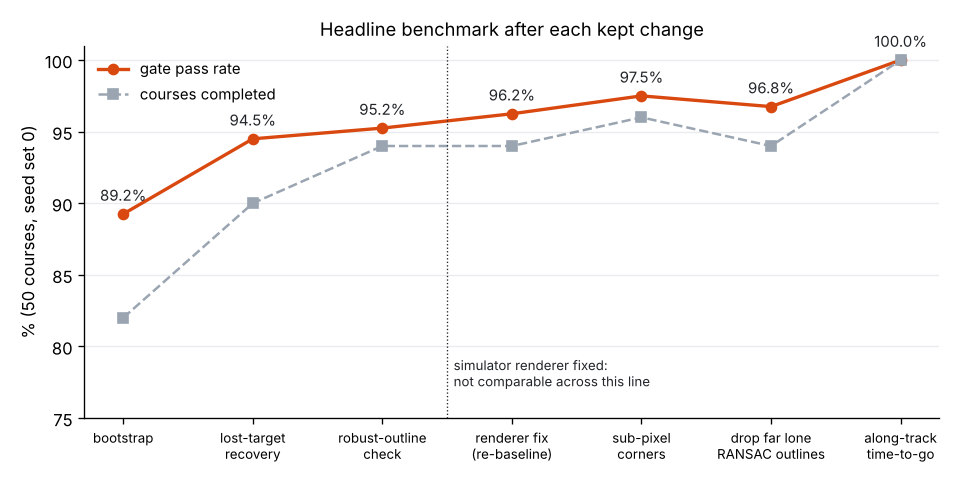
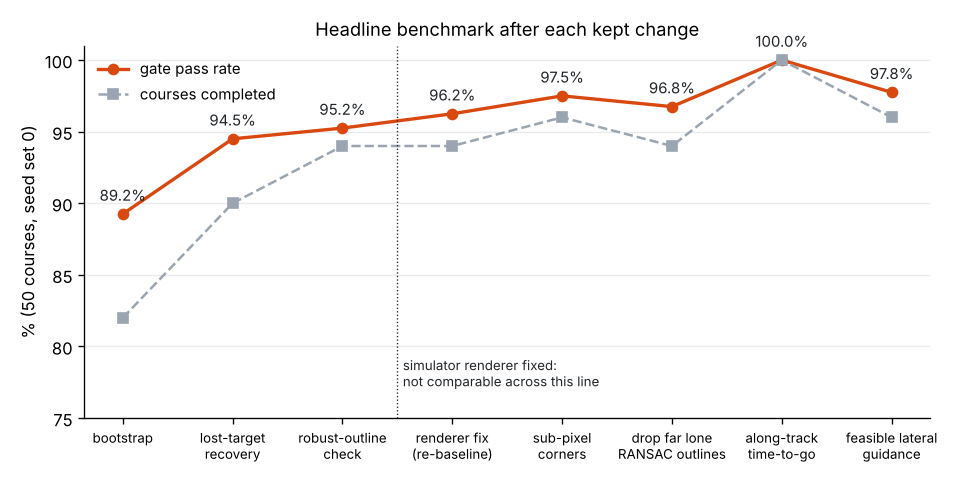
Write-up refresh: feasible lateral guidance in README/WRITEUP/figures, pooled 6-set headline 99.08%, handoff yaw story
Claude-Session: https://claude.ai/code/session_01VbhGurrirFWQSkDPdnf4zm

diff --git a/vdr/report.py b/vdr/report.py
@@ -1,6 +1,6 @@
 """Write-up figures, generated only from committed results files.
 
-    python -m vdr.report            # writes docs/img/{history,ablations,paired_laps}.png
+    python -m vdr.report            # writes docs/img/{history,ablations,paired_laps*}.png
 
 Every number plotted is read from a `results/*.json` file listed below, so the
 figures can be regenerated (and checked) by anyone with the repo. Nothing here
@@ -32,6 +32,7 @@ HISTORY = [
     ("2026-10-12_3b6cbbb_baseline.json", "sub-pixel\ncorners", 1),
     ("2026-10-13_0f1e256_baseline.json", "drop far lone\nRANSAC outlines", 1),
     ("2026-10-15_1d4bb7f_baseline.json", "along-track\ntime-to-go", 1),
+    ("2026-10-16_3395fb0_baseline.json", "feasible lateral\nguidance", 1),
 ]
 
 # Component A/Bs: (label, [(off file, on file), ...] one pair per seed set).
@@ -70,6 +71,16 @@ ABLATIONS = [
         ("2026-10-14_2d7e3f6_baseline-seed3000.json", "2026-10-15_131d93c_ab-attgo-seed3000.json"),
         ("2026-10-14_2d7e3f6_baseline-seed4000.json", "2026-10-15_131d93c_ab-attgo-seed4000.json"),
     ]),
+    # Off: the along-track time-to-go "on" files (same code path at d37cf14 with the flag off),
+    # plus seed set 5000 flown at d37cf14 with the flag off.
+    ("feasible lateral guidance", [
+        ("2026-10-15_1d4bb7f_baseline.json", "2026-10-15_d37cf14_ab-feaslat.json"),
+        ("2026-10-14_131d93c_ab-attgo-seed1000.json", "2026-10-16_d37cf14_ab-feaslat-seed1000.json"),
+        ("2026-10-14_131d93c_ab-attgo-seed2000.json", "2026-10-16_d37cf14_ab-feaslat-seed2000.json"),
+        ("2026-10-15_131d93c_ab-attgo-seed3000.json", "2026-10-16_d37cf14_ab-feaslat-seed3000.json"),
+        ("2026-10-15_131d93c_ab-attgo-seed4000.json", "2026-10-16_d37cf14_ab-feaslat-seed4000.json"),
+        ("2026-10-16_d37cf14_baseline-seed5000.json", "2026-10-16_d37cf14_ab-feaslat-seed5000.json"),
+    ]),
 ]
 
 # A/Bs that were tried and left off (shown in the write-up, not in the ablation figure).
@@ -81,12 +92,21 @@ REJECTED = [
         ("2026-10-14_2d7e3f6_baseline-seed3000.json", "2026-10-14_2d7e3f6_ab-latprio-seed3000.json"),
         ("2026-10-14_2d7e3f6_baseline-seed4000.json", "2026-10-14_2d7e3f6_ab-latprio-seed4000.json"),
     ]),
+    ("handoff yaw sigma floor", [
+        ("2026-10-16_3395fb0_baseline.json", "2026-10-17_cbd0150_ab-yawfloor.json"),
+        ("2026-10-16_d37cf14_ab-feaslat-seed1000.json", "2026-10-17_cbd0150_ab-yawfloor-seed1000.json"),
+        ("2026-10-16_d37cf14_ab-feaslat-seed2000.json", "2026-10-17_cbd0150_ab-yawfloor-seed2000.json"),
+        ("2026-10-16_d37cf14_ab-feaslat-seed3000.json", "2026-10-17_cbd0150_ab-yawfloor-seed3000.json"),
+        ("2026-10-16_d37cf14_ab-feaslat-seed4000.json", "2026-10-17_cbd0150_ab-yawfloor-seed4000.json"),
+        ("2026-10-16_d37cf14_ab-feaslat-seed5000.json", "2026-10-17_cbd0150_ab-yawfloor-seed5000.json"),
+    ]),
 ]
 
 # Paired lap-time comparisons (same seeds, flag off vs on): (label, pairs, output file name).
 PAIRED = [
     ("sub-pixel corners", ABLATIONS[3][1], "paired_laps.png"),
     ("along-track time-to-go", ABLATIONS[5][1], "paired_laps_tgo.png"),
+    ("feasible lateral guidance", ABLATIONS[6][1], "paired_laps_feaslat.png"),
 ]
 
 C_OFF, C_ON, C_INK, C_GRID = "#9aa5b1", "#d9480f", "#212529", "#e9ecef"
@@ -155,7 +175,7 @@ def plot_ablations(path, root=RESULTS) -> list:
         on = pooled_pass([p[1] for p in pairs], root)
         per_set = [(100 * load(a, root)["pass_rate"], 100 * load(b, root)["pass_rate"]) for a, b in pairs]
         rows.append((label, len(pairs), 100 * off[0] / off[1], 100 * on[0] / on[1], per_set))
-    fig, ax = plt.subplots(figsize=(10, 4.4))
+    fig, ax = plt.subplots(figsize=(11, 4.4))
     w = 0.36
     for i, (label, n, off, on, per_set) in enumerate(rows):
         ax.bar(i - w / 2, off, w, color=C_OFF, label="off" if i == 0 else None)

diff --git a/docs/WRITEUP.md b/docs/WRITEUP.md
@@ -24,23 +24,28 @@ default configuration.
 
 | configuration (current simulator) | gate pass rate | courses completed | mean lap |
 |---|---|---|---|
-| **default** | **100.0%** | 100% | 11.26 s |
-| along-track time-to-go off | 96.8% | 94% | 12.27 s |
+| **default** | **97.8%** | 96% | 11.59 s |
+| feasible lateral guidance off | 100.0% | 100% | 11.26 s |
+| also along-track time-to-go off | 96.8% | 94% | 12.27 s |
 | also far lone RANSAC outlines kept | 97.5% | 96% | 12.33 s |
 | also sub-pixel corners off | 96.2% | 94% | 12.5 s |
 
-Source: [`2026-10-15_1d4bb7f_baseline.json`](../results/2026-10-15_1d4bb7f_baseline.json),
+Source: [`2026-10-16_3395fb0_baseline.json`](../results/2026-10-16_3395fb0_baseline.json),
+[`2026-10-15_1d4bb7f_baseline.json`](../results/2026-10-15_1d4bb7f_baseline.json),
 [`2026-10-13_0f1e256_baseline.json`](../results/2026-10-13_0f1e256_baseline.json),
 [`2026-10-12_3b6cbbb_baseline.json`](../results/2026-10-12_3b6cbbb_baseline.json),
 [`2026-10-12_06ceff9_baseline.json`](../results/2026-10-12_06ceff9_baseline.json).
 
-**Seed set 0 is a lucky set; the pooled number is the honest one.** Over five sets of 50
-courses (seeds 0, 1000, 2000, 3000, 4000; 2000 gates) the default passes **97.75%** of gates
-and completes 241 of 250 courses (per set 100.0 / 96.5 / 98.8 / 96.5 / 97.0%, laps 11.1–11.3 s;
-`results/2026-10-1{4,5}_131d93c_ab-attgo[-seedN].json`, flown with the same code as the
-default). The nine failures are 8 `crash_gate` (clipping a frame) and 1 `missed_gate`. The
-latest change made laps a second faster at an unchanged pooled pass rate (97.50% → 97.75%,
-section 6.6); its +3.2 points on seed set 0 alone are noise.
+**One seed set is not enough; the pooled number is the honest one.** Over six sets of 50
+courses (seeds 0, 1000, 2000, 3000, 4000, 5000; 2400 gates) the default passes **99.08%** of
+gates and completes 295 of 300 courses (per set 97.8 / 97.2 / 100.0 / 99.5 / 100.0 / 100.0%,
+laps 11.5–11.7 s; `results/2026-10-16_3395fb0_baseline.json` and
+`results/2026-10-16_d37cf14_ab-feaslat-seed{1000..5000}.json`, flown with the same code as the
+default). The five failures are 2 `crash_gate` (clipping a frame) and 3 `missed_gate`. The
+latest change, guidance that plans its sideways correction within the acceleration limit
+(section 6.7), raised the pooled pass rate from 97.92% to 99.08% and cost 3% of lap time. On
+seed set 0 alone the same change went *down*, 100.0% → 97.8%: that set had been the lucky one,
+and two runs either way is within noise for one set.
 
 ![Headline benchmark after each kept change](img/history.png)
 
@@ -61,13 +66,17 @@ sets named; each grey line is one 50-course set):
 | sub-pixel corners | 4 | 96.9% → 96.7% (laps 0.155 s faster) | `2026-10-12_06ceff9_` |
 | drop far lone RANSAC outlines | 5 | 96.25% → 97.50% (laps unchanged) | `2026-10-1{2,3}_b6a6a31_` |
 | along-track time-to-go | 5 | 97.50% → 97.75% (laps 1.03 s faster) | `2026-10-1{4,5}_131d93c_ab-attgo` |
+| feasible lateral guidance | 6 | 97.92% → 99.08% (laps 0.34 s slower, +3%) | `2026-10-1{5,6}_d37cf14_ab-feaslat` |
 | *tried, left off:* lateral-first saturation | 5 | 97.50% → 98.25% (completed 240 → 240) | `2026-10-1{3,4}_2d7e3f6_` |
+| *tried, left off:* handoff yaw sigma floor | 6 | 99.08% → 99.17% (1 run rescued, 0 broken) | `2026-10-17_cbd0150_ab-yawfloor` |
 
 The first three were measured on the earlier renderer. Sub-pixel corners did not change the
 pass rate; they were kept because they made laps faster at equal pass rate (section 5), and
-the same holds for along-track time-to-go. Lateral-first saturation raised the gate count but
-not the number of completed courses (it rescued 8 runs and broke 8, which then failed later in
-the course), so it was not counted as a clear win (section 6.6).
+the same holds for along-track time-to-go. Feasible lateral guidance is slower but within the
+5% the pace rule allows, and it completed 5 more of 300 courses (9 rescued, 4 broken).
+Lateral-first saturation raised the gate count but not the number of completed courses (it
+rescued 8 runs and broke 8, which then failed later in the course), so it was not counted as a
+clear win (section 6.6). The handoff yaw floor changed one run in 300 (section 6.8).
 
 Two reference points from the bootstrap: at 4 m/s with no race clock the stack passes 97.8% of
 gates ([`0423930_ablation-4mps-noclock`](../results/2026-10-07_0423930_ablation-4mps-noclock.json))
@@ -196,6 +205,16 @@ x > −1.2 m guidance switches to "hold the line": a velocity loop towards v_f p
 vertical position feedback. (A floor on T used instead made the drone brake to a stop 0.7 m
 short of the gate.) The total demand is clipped to 14 m/s².
 
+**Planning within the limit.** The cubic's acceleration is linear in time, so on each lateral
+axis its largest value is at one end of the manoeuvre, and both ends have closed forms:
+a(0) = (−6y − 4T v_y)/T² and a(T) = (6y + 2T v_y)/T² (gate at y = 0). Guidance picks the
+shortest lateral time-to-go T_lat whose peak stays within 11 m/s². If that is later than the
+along-track arrival, it buys the time by braking along x at a constant deceleration so the drone
+reaches the gate plane at T_lat (never planning to arrive slower than 3 m/s, and braking only
+with what the 14 m/s² limit leaves). Example: 1 m off the axis, 4 m out at 8 m/s, the plain
+cubic asks for 24 m/s² sideways, which clipping cut to 14; the planned law asks for 11.3 sideways
+and brakes at 6.9.
+
 Control turns the desired acceleration into acro commands: thrust along the required specific
 force (with a 55° tilt limit), a desired attitude from that axis plus the desired heading, and
 body rates proportional to the geometric attitude error on SO(3) (Lee et al., 2010).
@@ -220,7 +239,7 @@ live in `AutonomyConfig` and are deliberately not copied from the simulator.
   one changed corners by 1e-13 px yet altered 40+ of 50 trajectories and flipped 1–2 outcomes
   per seed set. Because a run ends at its first failure, one early crash can cost up to 2% of
   the 400 gates. So differences under ~8 percentage points on one set are treated as noise,
-  and smaller effects are judged only pooled over several seed sets (0, 1000, 2000, 3000, 4000), with
+  and smaller effects are judged only pooled over several seed sets (0, 1000, 2000, 3000, 4000, and 5000 since run 13), with
   a set held out when a threshold was tuned on the others.
 * **Pace rule.** A change counts only if the pass rate rises without the mean lap time getting
   more than 5% worse; going faster at equal pass rate also counts.
@@ -235,6 +254,12 @@ live in `AutonomyConfig` and are deliberately not copied from the simulator.
 
   Along-track time-to-go: 232 of 233 paired runs faster, mean −1.025 s (median −1.033 s),
   about 8% of a lap.
+
+![Paired lap-time differences, feasible lateral guidance on minus off](img/paired_laps_feaslat.png)
+
+  Feasible lateral guidance: 271 of 286 paired runs slower (11 faster, 4 equal), mean
+  +0.344 s (median +0.324 s), about 3% of a lap: the price of braking when a correction
+  would not fit.
 * **Simulator changes** go in as a `SimConfig` field defaulting to the old behaviour, then the
   default is flipped in a separate commit and the benchmark re-baselined.
 
@@ -307,15 +332,41 @@ which counts as an improvement under the pace rule. The 7 broken runs are the sa
 higher speed: lateral demand saturating close to the gate, often after a late correction
 following a handoff.
 
+### 6.7 Plan around the limit instead of clipping at it (pooled 97.92% → 99.08%)
+Both attempts in 6.6 still let guidance ask for the impossible and then decided what to drop.
+The fix was to never ask: because the cubic's acceleration is linear in time, its peak sideways
+demand has a closed form, so guidance can choose the lateral time-to-go that keeps the peak at
+11 m/s² and, when that is longer than the along-track arrival, brake along x to make the time
+(section 3.6). Over six seed sets it rescued 9 runs (8 of them the lateral-saturation crashes
+from 6.6) and broke 4, raising the pooled pass rate from 97.92% to 99.08% and completed courses
+from 290 to 295, for 0.34 s (3%) of lap time. Re-flying the broken runs showed what comes next:
+three were handoffs where the next gate's estimate started 2–4 m off sideways, and the new law
+braked and chased it until sightings corrected it. Fixing one subsystem tends to expose the
+next one.
+
+### 6.8 An error the main measurement cannot see (handoff yaw)
+Those 2–4 m post-handoff errors persisted for 0.5–0.7 s even though the first sighting after
+each handoff was *accepted* by the χ² test within 0.01–0.08 s. The reason is geometric. The
+filter lives in the target gate's frame, and its main measurement is the gate centre seen from
+the camera (direction and range). If the next gate's *yaw* is estimated wrong by θ, the handoff
+re-expresses the drone's pose in a frame rotated by θ about the gate centre: the estimated drone
+is a rigid rotation of the true one about that centre, so the gate centre looks exactly where
+it should and the innovation is zero. Only the weak PnP attitude update can see θ. Checked
+against truth over 685 handoffs on seed sets 0 and 1000, the averaged next-gate yaw had an RMS
+error of 9–10.5° (worse below 7 m), 8–11% of handoffs were more than 15° off, the failing ones
+16–46°, and its claimed σ was 2–3× too small because sightings from one viewpoint share their
+bias. Flooring that σ at 12° (so the attitude updates can pull it in) was flat: pooled
+99.08% → 99.17%, one run rescued, none broken, so it was left off. A wider prior cannot help
+much while the attitude measurement itself is single-square PnP rotation (5–30° noise); the
+planned fix is a better yaw measurement (section 7).
+
 ## 7. Limitations and next steps
 
-* Next-gate estimates are still the weak point; with the earlier renderer about 10% of
-  handoffs were more than 1.5 m off along x. Using both squares in one PnP (8 points), a
-  gravity-constrained 4-DoF PnP (position + yaw only), and a measurement covariance from the
-  PnP Jacobian are the planned attacks.
-* Most remaining failures are lateral saturation near the gate (section 6.6). The guidance
-  should plan within its acceleration limit (choose T so the lateral cubic's peak acceleration
-  stays under 14 m/s², slowing along x only when it must) instead of relying on clipping.
+* Next-gate estimates are the weak point again, and now mostly their *yaw* (section 6.8).
+  A gravity-constrained 4-DoF PnP (position + yaw only, roll and pitch from the filter) should
+  remove most planar flips and give a much better yaw measurement; using both squares in one
+  PnP (8 points) and a measurement covariance from the PnP Jacobian come after it.
+* The terminal "hold the line" law is weak; a miss-distance law for the last 1.2 m is planned.
 * Guidance plans one gate at a time; a lookahead through the current *and* next gate would
   start turns earlier.
 * The world is still clean: no latency, motion blur, lens distortion, lighting changes,

diff --git a/README.md b/README.md
@@ -39,26 +39,28 @@ Current simulator (area-coverage gate rendering, since 2026-10-12):
 
 | configuration | gate pass rate | courses completed | mean lap |
 |---|---|---|---|
-| **baseline (8 m/s)**, seed set 0 | **100.0%** | 100% | 11.26 s |
-| **baseline, pooled over 5 seed sets (250 courses)** | **97.75%** | 96.4% | 11.1–11.3 s per set |
-| same, along-track time-to-go off | 96.8% | 94% | 12.27 s |
+| **baseline, pooled over 6 seed sets (300 courses)** | **99.08%** | 98.3% | 11.5–11.7 s per set |
+| **baseline (8 m/s)**, seed set 0 | **97.8%** | 96% | 11.59 s |
+| same, feasible lateral guidance off | 100.0% | 100% | 11.26 s |
+| same, also along-track time-to-go off | 96.8% | 94% | 12.27 s |
 | same, also far lone RANSAC outlines kept | 97.5% | 96% | 12.33 s |
 | same, also sub-pixel corners off | 96.2% | 94% | 12.5 s |
 
-Files: [`baseline`](results/2026-10-15_1d4bb7f_baseline.json),
-pooled: `results/2026-10-1{4,5}_131d93c_ab-attgo[-seedN].json` (same code as the baseline),
+Files: [`baseline`](results/2026-10-16_3395fb0_baseline.json),
+pooled: the baseline plus `results/2026-10-16_d37cf14_ab-feaslat-seed{1000..5000}.json` (same
+code as the baseline), [`feasible lateral guidance off`](results/2026-10-15_1d4bb7f_baseline.json),
 [`along-track time-to-go off`](results/2026-10-13_0f1e256_baseline.json),
 [`far lone RANSAC outlines kept`](results/2026-10-12_3b6cbbb_baseline.json),
 [`sub-pixel corners off`](results/2026-10-12_06ceff9_baseline.json).
-Seed set 0 happens to be a lucky set: single 50-run sets differ by one or two runs from noise
-alone, so the pooled row is the number to quote and components are judged pooled over several
-seed sets. The latest change takes the guidance's time-to-go from along-track motion: it
-removed spurious braking near each gate and made completed laps 1.03 s faster (232 of 233
-paired runs) at an unchanged pooled pass rate (97.50% → 97.75%). Before it, dropping RANSAC
-outlines that have no opening to cross-check beyond 6 m raised the pooled pass rate from
-96.25% to 97.50%, and sub-pixel corners made laps 0.155 s faster at equal pass rate. Most
-remaining failures are the drone running out of sideways acceleration just before a gate
-(details in the write-up).
+Single 50-run sets differ by one or two runs from noise alone, so the pooled row is the number
+to quote and components are judged pooled over several seed sets. The latest change makes the
+guidance plan its sideways correction within the acceleration limit (braking along the track
+when a correction would not fit) instead of clipping an impossible request: pooled pass rate
+97.92% → 99.08% and 5 more completed courses, for laps 3% slower (+0.34 s on 286 paired runs).
+On seed set 0 alone it went 100.0% → 97.8%, because that set had been the lucky one. Before it,
+taking the time-to-go from along-track motion made laps 1.03 s faster at an unchanged pass
+rate. Most remaining failures start at a handoff, when the next gate's estimated *yaw* is off
+by 16–46° in the failing runs (details in the write-up).
 
 ![Headline benchmark after each kept change](docs/img/history.png)
 
@@ -113,7 +115,9 @@ Files: [`baseline`](results/2026-10-11_68513f6_baseline.json),
   re-expressed in the next gate's frame. If a nearer gate appears in front, the drone
   retargets.
 - **Guidance and control.** A receding-horizon cubic brings the drone to the gate centre with
-  its velocity along the gate normal; a geometric attitude controller turns the desired
+  its velocity along the gate normal, choosing its time-to-go so the sideways acceleration it
+  needs stays within the drone's limit (braking along the track when it must); a geometric
+  attitude controller turns the desired
   acceleration into collective thrust and body-rate commands, as a pilot would in acro mode.
 
 ## Simulator
@@ -143,7 +147,7 @@ camera noise.
 
 ```bash
 pip install -r requirements.txt
-python -m pytest -q                         # 69 tests, ~60 s
+python -m pytest -q                         # 73 tests, ~45 s
 python -m vdr.harness --runs 50 --seed 0    # the benchmark (~2 min on 2 cores)
 python -m vdr.harness --runs 50 --flag chi2_gating=false      # an ablation
 python -m vdr.harness --runs 50 --sim pixel_noise_sigma=8     # a harder world
